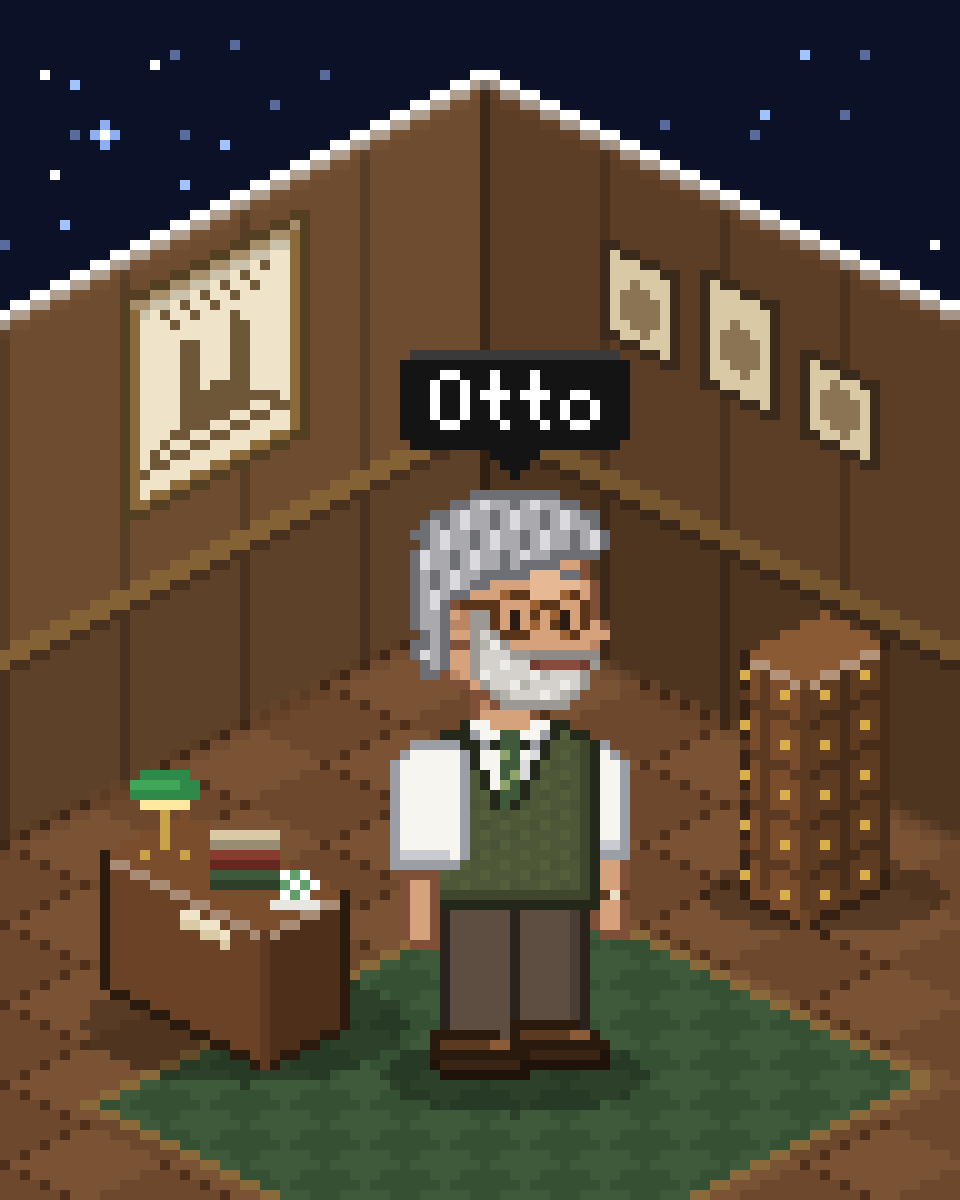
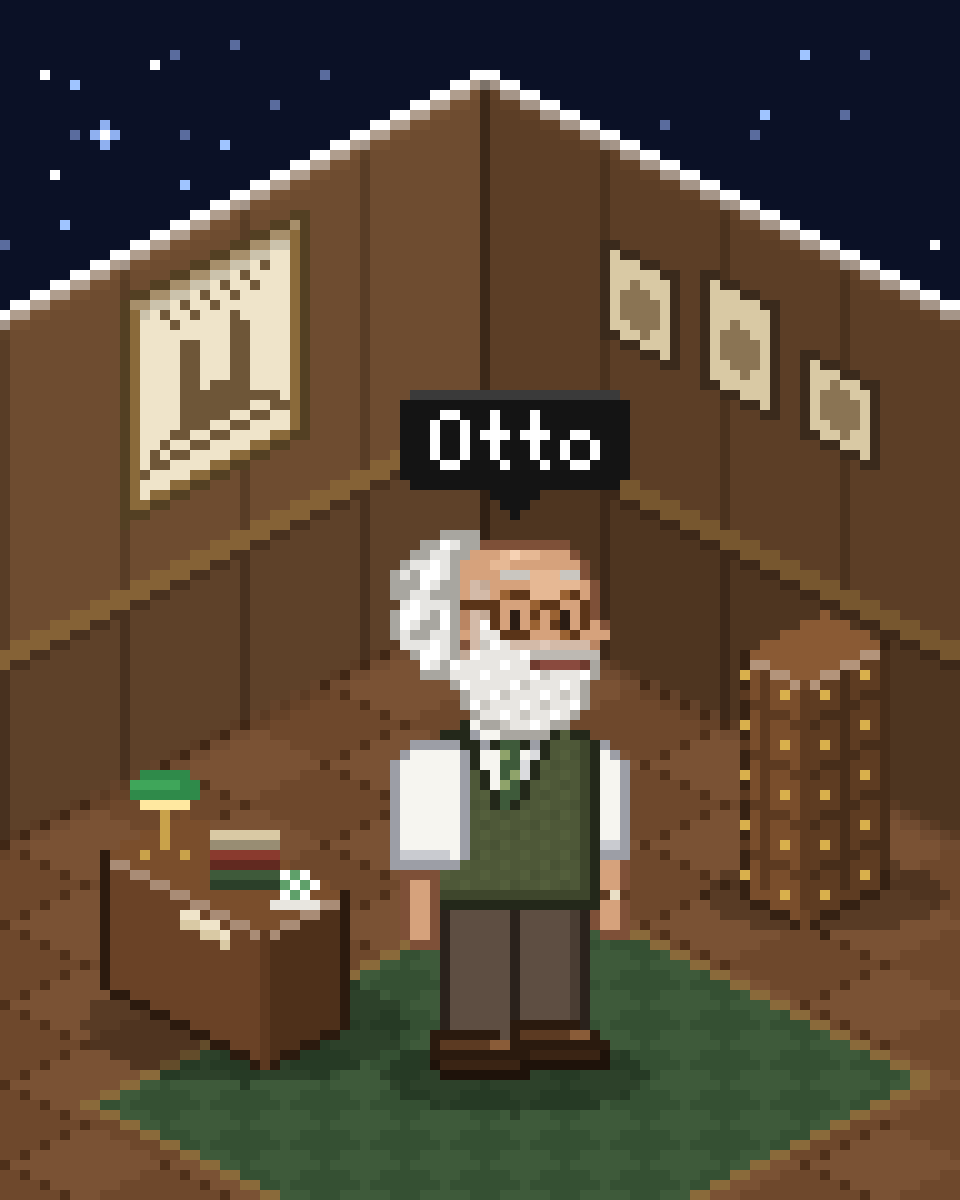
Diferencia Otto, Sr. Pra Ontem e Saldanha; refaz as barbas
Otto fica calvo no alto, com os lados brancos e fofos e barba branca
cheia; o Sr. Pra Ontem ganha cabelo escuro com as têmporas grisalhas e
um topete espetado, com bigode e cavanhaque escuros. Saldanha segue
grisalho médio e curto.

Barbas presas ao rosto: só a borda de baixo leva contorno e a que
encosta na bochecha se mistura com a pele. A do Gabriel nasce na
costeleta e acompanha o maxilar; a do Caio fica completa, mas por fazer.
No cartão do Sr. Pra Ontem, relógio e placa URGENTE saem de baixo da
etiqueta de nome.

Claude-Session: https://claude.ai/code/session_01YJa75aoJvVifXZMgNoaUDJ

Changed region(s): [[0.4062, 0.2775, 0.6562, 0.6167]]

diff --git a/pixel-art-habbo/src/chars.py b/pixel-art-habbo/src/chars.py
@@ -153,6 +153,32 @@ def _ear(S, P):
     S.add(ear)
 
 
+def _beard_on(S, rows, base, dark, sk, tex=None, stubble=False):
+    """Barba presa ao rosto: só a borda de baixo (e a que dá para fora da
+    cabeça) ganha contorno escuro; a borda que encosta na bochecha se mistura
+    com a pele. stubble=True deixa tudo suave, como barba por fazer."""
+    L = Layer(base, dark)
+    L.rows(rows)
+    if tex:
+        L.recolor(tex)
+    pts = set(L.px)
+    for (x, y), c in list(L.px.items()):
+        hard = soft = False
+        for dx, dy in ((1, 0), (-1, 0), (0, 1), (0, -1)):
+            q = (x + dx, y + dy)
+            if q in pts:
+                continue
+            if dy == 1 or q not in S.px:
+                hard = True
+            else:
+                soft = True
+        if hard and not stubble:
+            L.px[(x, y)] = dark
+        elif soft or hard:
+            L.px[(x, y)] = mix(c, sk, 0.45)
+    S.add(L)
+
+
 def guilherme():
     S = Sprite(40, 70)
     P = dict(
@@ -319,17 +345,16 @@ def gabriel():
     _neck_head(S, P)
     _ear(S, P)
 
-    # barba cheia: costeleta, maxilar, queixo e bigode
-    bd = Layer(beard, beardd)
-    bd.rows({14: (15, 16), 15: (15, 16), 16: (15, 16), 17: (15, 17),
-             18: (15, 18), 19: (15, 27), 20: (15, 27), 21: (15, 27),
-             22: (15, 26), 23: (15, 26), 24: (16, 25), 25: (17, 24), 26: (18, 23)})
-    bd.recolor(lambda x, y, c: beardl if (x * 3 + y) % 5 == 0 else (beardd if (x + y * 2) % 7 == 0 else None))
-    bd.outline()
-    # bochecha aparecendo acima da barba
-    for p in ((19, 19), (20, 19), (21, 19), (19, 20), (20, 20)):
-        bd.px.pop(p, None)
-    S.add(bd)
+    # barba cheia: nasce na costeleta, desce pelo maxilar, fecha no queixo
+    # e no bigode; presa ao rosto (sem contorno do lado da bochecha)
+    _beard_on(S, {12: (14, 15), 13: (14, 15), 14: (14, 16), 15: (15, 16), 16: (15, 16),
+                  17: (15, 17), 18: (15, 18), 19: (15, 27), 20: (12, 27), 21: (12, 27),
+                  22: (12, 26), 23: (13, 26), 24: (14, 26), 25: (15, 25), 26: (16, 24),
+                  27: (18, 22)},
+              beard, beardd, P['sks'],
+              tex=lambda x, y, c: beardl if (x * 3 + y) % 5 == 0 else (beardd if (x + y * 2) % 7 == 0 else None))
+    for x, y in ((19, 19), (20, 19)):
+        S.set(x, y, mix(beard, P['sks'], 0.4))
     # boca no meio da barba
     for x in range(22, 26):
         S.set(x, 22, rgb('#B4655A'))
@@ -735,10 +760,14 @@ def caio(pose='tablet'):
     S.set(28, 18, P['sk'])
     S.set(27, 19, P['sks'])
     S.set(26, 19, P['sks'])
-    stub = mix(P['sks'], haird, 0.28)
-    for x, y in ((15, 21), (16, 22), (17, 23), (18, 24), (19, 24), (20, 25), (21, 25),
-                 (22, 24), (25, 24), (26, 23), (20, 20), (21, 20), (26, 20)):
-        S.set(x, y, stub)
+    # barba completa, mas por fazer: costeleta, bochecha, queixo e buço
+    # sombreados, sem fio comprido
+    stub, stubd = mix(P['sks'], haird, 0.24), mix(P['sks'], haird, 0.4)
+    _beard_on(S, {16: (15, 16), 17: (15, 16), 18: (15, 16), 19: (15, 17),
+                  20: [(14, 18), (21, 26)], 21: (12, 19), 22: (12, 20), 23: (13, 26),
+                  24: (15, 25), 25: (17, 24)},
+              stub, stubd, P['sks'], stubble=True,
+              tex=lambda x, y, c: stubd if (x * 3 + y) % 5 == 0 else None)
     mouth = rgb('#5E2A1E')
     S.set(20, 21, mouth)
     S.set(27, 21, mouth)
@@ -1045,9 +1074,9 @@ def strands(base, dark, light):
 
 
 def otto():
-    """Otto: cabelo grisalho ondulado, barba branca aparada, óculos redondos
-    de tartaruga, camisa branca com a manga dobrada, colete de tricô verde
-    oliva, gravata listrada, calça de lã e sapato de couro."""
+    """Otto: calvo no alto, com os lados brancos e fofos; barba branca cheia,
+    óculos redondos de tartaruga, camisa branca com a manga dobrada, colete de
+    tricô verde oliva, gravata listrada, calça de lã e sapato de couro."""
     S = Sprite(40, 70)
     P = dict(sk=rgb('#D6A27C'), sks=rgb('#BA8562'), skl=rgb('#E6B894'), skline=rgb('#7E5038'),
              pant=rgb('#5E4E42'), pants=rgb('#4A3D33'), pantline=rgb('#2A221C'),
@@ -1056,7 +1085,7 @@ def otto():
     shirt = (rgb('#F6F5F0'), rgb('#DADBDE'), rgb('#9C9EA6'))
     vest = (rgb('#4E5838'), rgb('#3E462C'), rgb('#23281A'))
     P['teeline'] = vest[2]
-    grey, greyd, greyl = rgb('#A9A9AE'), rgb('#6E6E75'), rgb('#DADADE')
+    grey, greyd, greyl = rgb('#E6E5E2'), rgb('#A8A6A0'), rgb('#FFFFFF')
 
     _far_arm_sl(S, P, shirt, 40, cuff=rgb('#C9CBD0'), watch=(rgb('#5C3A22'), rgb('#E9DFC6')))
     _legs_shoes(S, P, top=45)
@@ -1092,16 +1121,15 @@ def otto():
         S.set(x, 29, tie)
     _ear(S, P)
 
-    # barba branca aparada, bigode um pouco mais escuro
-    bd = Layer(rgb('#D4D1CC'), rgb('#9C9893'))
-    bd.rows({15: (15, 16), 16: (15, 16), 17: (15, 16), 18: (15, 17), 19: (15, 18),
-             20: (15, 27), 21: (15, 27), 22: (15, 26), 23: (16, 26), 24: (17, 25), 25: (18, 24)})
-    bd.recolor(lambda x, y, c: rgb('#EDEBE7') if (x * 3 + y) % 5 == 0 else
-               (rgb('#B5B1AB') if (x + y * 2) % 6 == 0 else None))
-    bd.outline()
-    S.add(bd)
+    # barba branca cheia e fofa, emendada nas costeletas
+    _beard_on(S, {13: (15, 16), 14: (15, 16), 15: (15, 16), 16: (15, 16), 17: (15, 17),
+                  18: (15, 18), 19: (15, 27), 20: (12, 27), 21: (12, 27), 22: (12, 27),
+                  23: (13, 26), 24: (14, 26), 25: (14, 26), 26: (15, 25), 27: (16, 24), 28: (18, 22)},
+              rgb('#E8E6E2'), rgb('#A9A6A0'), P['sks'],
+              tex=lambda x, y, c: rgb('#FFFFFF') if (x * 3 + y) % 5 == 0 else
+              (rgb('#C9C6C0') if (x + y * 2) % 6 == 0 else None))
     for x in range(21, 28):
-        S.set(x, 20, rgb('#8E8A85'))
+        S.set(x, 20, rgb('#BDB9B3'))
     for x in range(22, 26):
         S.set(x, 21, rgb('#8A4A3E'))
     S.set(21, 21, rgb('#6E3A2E'))
@@ -1123,26 +1151,21 @@ def otto():
     for x in (14, 15, 16):
         S.set(x, 15, tort)
     for x in (18, 19, 20, 24, 25):
-        S.set(x, 12, greyd)
+        S.set(x, 12, rgb('#C9C6C0'))
 
-    # cabelo grisalho ondulado, cheio, penteado para trás
+    # calvo no alto (com brilho), cabelo branco e fofo só dos lados e atrás
+    for x, y in ((18, 10), (19, 10), (20, 10), (21, 10), (17, 11), (18, 11)):
+        S.set(x, y, P['skl'])
+    S.set(19, 10, rgb('#F6D2B4'))
     hr = Layer(grey, greyd)
-    hr.rows({4: (15, 23), 5: (13, 25), 6: (11, 27), 7: (10, 28), 8: (9, 28), 9: (9, 28),
-             10: (9, 27), 11: (9, 23), 12: (9, 19), 13: (9, 16), 14: (9, 14)})
-    hr.rows({y: (9, 12) for y in range(15, 21)})
-    hr.rows({21: (10, 12), 22: (10, 11)})
-
-    def waves(x, y, c):
-        k = (x + (y // 2) * 2) % 5
-        if k == 0:
-            return greyl
-        if k == 3:
-            return greyd
-        return None
-    hr.recolor(waves)
+    hr.rows({8: (12, 15), 9: (10, 15), 10: (9, 14), 11: (8, 13)})
+    hr.rows({y: (7, 13) for y in range(12, 20)})
+    hr.rows({20: (8, 13), 21: (9, 12), 22: (10, 11)})
+    hr.recolor(curls(grey, greyd, greyl))
     hr.outline()
-    for p in ((28, 7), (9, 9), (9, 18)):
-        hr.px.pop(p, None)
+    for (x, y) in hr.edges():
+        if (x * 5 + y * 3) % 4 == 0 and x < 10:
+            hr.px.pop((x, y), None)
     S.add(hr)
     return S.image()
 
@@ -1235,9 +1258,11 @@ def _necklace(S, pendant=GOLD, y0=30):
 
 
 def pra_ontem(pose='parado'):
-    """Sr. Pra Ontem, do Departamento das Urgências: grisalho, óculos pretos
-    grossos, barba grisalha, terno grafite, camisa branca, gravata verde e
-    lenço no bolso. pose='telefone': o fone vermelho no ouvido."""
+    """Sr. Pra Ontem, do Departamento das Urgências: cabelo escuro com as
+    têmporas grisalhas, topete espetado de quem está com pressa, óculos
+    pretos grossos, bigode e cavanhaque escuros com fios brancos, terno
+    grafite, gravata verde e lenço no bolso.
+    pose='telefone': o fone vermelho no ouvido."""
     S = Sprite(40, 70)
     P = dict(sk=rgb('#D9A580'), sks=rgb('#BE8962'), skl=rgb('#E8BA96'), skline=rgb('#7E5038'),
              pant=rgb('#3E3E45'), pants=rgb('#303036'), pantline=rgb('#17171B'),
@@ -1247,7 +1272,8 @@ def pra_ontem(pose='parado'):
     suit_l = rgb('#5A5A64')
     P['teeline'] = suit[2]
     white, whites = rgb('#F6F5F0'), rgb('#DADBDE')
-    grey, greyd, greyl = rgb('#9C9CA1'), rgb('#66666C'), rgb('#D0D0D4')
+    grey, greyd, greyl = rgb('#34343A'), rgb('#1C1C20'), rgb('#56565E')
+    silver, silverd = rgb('#C2C2C8'), rgb('#8E8E96')
 
     _far_arm_sl(S, P, suit, 41, cuff=white, watch=(rgb('#C9A24A'), rgb('#F7EFD0')))
     _legs_shoes(S, P, top=46)
@@ -1289,36 +1315,42 @@ def pra_ontem(pose='parado'):
     for x in (22, 14, 15, 16):
         S.set(x, 15, gl)
     for x, y in ((18, 12), (19, 12), (20, 13), (21, 13), (23, 13), (24, 12), (25, 12), (26, 12)):
-        S.set(x, y, greyd)
+        S.set(x, y, rgb('#2A2A30'))
     S.set(28, 18, P['sk'])
     S.set(27, 19, P['sks'])
     S.set(26, 19, P['sks'])
-    # barba por fazer, bigodão e cavanhaque grisalhos
-    for x, y in ((15, 21), (16, 22), (17, 23), (18, 24), (16, 20), (17, 22), (15, 19)):
-        S.set(x, y, mix(P['sks'], greyl, 0.45))
+    # barba por fazer escura, bigodão e cavanhaque escuros com fios brancos
+    stub = mix(P['sks'], greyd, 0.3)
+    for x, y in ((15, 21), (16, 22), (17, 23), (18, 24), (16, 20), (17, 22), (15, 19), (19, 25)):
+        S.set(x, y, stub)
     for x in range(21, 28):
-        S.set(x, 20, rgb('#7A7672'))
-        S.set(x, 21, rgb('#8E8A86') if x in (21, 27) else rgb('#7A7672'))
+        S.set(x, 20, greyd)
+        S.set(x, 21, silverd if x in (21, 27) else grey)
+    S.set(23, 20, silverd)
+    S.set(26, 20, silverd)
     for x in range(23, 26):
         S.set(x, 22, rgb('#3A1A12'))
     S.set(24, 23, rgb('#8A3A2E'))
     for x, y in ((20, 22), (21, 22), (22, 22), (26, 22), (20, 23), (21, 23), (22, 23), (23, 23),
                  (25, 23), (26, 23), (21, 24), (22, 24), (23, 24), (24, 24), (25, 24), (22, 25), (23, 25), (24, 25)):
-        S.set(x, y, rgb('#D4D1CC') if (x + y) % 3 else rgb('#A9A6A1'))
+        S.set(x, y, silver if (x * 2 + y) % 5 == 0 else (grey if (x + y) % 2 else greyl))
 
+    # topete escuro e espetado, têmporas e nuca grisalhas
     hr = Layer(grey, greyd)
-    hr.rows({3: (15, 23), 4: (13, 25), 5: (11, 27), 6: (10, 28), 7: (9, 28), 8: (9, 28),
+    hr.rows({0: [(16, 17), (22, 23)], 1: [(15, 18), (21, 24), (26, 27)], 2: [(14, 19), (20, 28)],
+             3: (13, 28), 4: (12, 29), 5: (11, 28), 6: (10, 28), 7: (10, 28), 8: (9, 28),
              9: (9, 27), 10: (9, 25), 11: (9, 21), 12: (9, 17), 13: (9, 15), 14: (9, 13)})
     hr.rows({y: (9, 12) for y in range(15, 21)})
     hr.rows({21: (10, 12)})
 
-    def waves(x, y, c):
-        k = (x + (y // 2) * 2) % 5
-        return greyl if k == 0 else (greyd if k == 3 else None)
-    hr.recolor(waves)
+    def temples(x, y, c):
+        if (x <= 13 and y >= 9) or (y >= 11 and x <= 15):
+            return silver if (x + y) % 3 else silverd
+        if (x + y * 2) % 5 == 0:
+            return greyl
+        return None
+    hr.recolor(temples)
     hr.outline()
-    for p in ((15, 3), (19, 3), (28, 6), (9, 8)):
-        hr.px.pop(p, None)
     S.add(hr)
 
     if pose == 'telefone':

diff --git a/pixel-art-habbo/src/build.py b/pixel-art-habbo/src/build.py
@@ -1307,8 +1307,8 @@ def scene_pra_ontem():
         return base
 
     room(S, walnut(rgb('#6A4A32')), walnut(rgb('#58402A')), floor)
-    on_wall(S, wall_clock(), 'l', 16, 50)
-    wall_sign(S, 'URGENTE', 'r', 58, 46, 30, 10, rgb('#D7302A'), WHITE, edge=rgb('#7E1612'))
+    on_wall(S, wall_clock(), 'l', 5, 54)
+    wall_sign(S, 'URGENTE', 'r', 66, 28, 28, 10, rgb('#D7302A'), WHITE, edge=rgb('#7E1612'))
     potted_palm(S, 82, 94)
     tx_, ty_ = office_desk(S, 30, 108, 5, 10, 15)
     paper_stack(S, tx_ - 11, ty_ - 4, 10, ('#D9453B', '#F4C04F', '#D9453B'))

diff --git a/pixel-art-habbo/README.md b/pixel-art-habbo/README.md
@@ -11,11 +11,11 @@ grade com tiles de 16x16 e personagens de 16x32.
 | 03 | Flora: labrador preta com coleira vermelha | manta vermelha, potinho de ração, bolinha de tênis |
 | 04 | Lupin: vira-lata pequeno, pelo duro, barba e sobrancelhas caramelo | manta xadrez azul, caminha, ossinho |
 | 05 | Saldanha (contador): grisalho, óculos, barba branca, polo marinho, cinto marrom, chino cinza, tablet | escritório: parede verde, janela para a cidade, quadro com gráfico, mesa, planta |
-| 06 | Caio (consultor): cachos curtos, sorrisão, camisa verde-oliva aberta, crachá, tablet com check verde | recepção: ripado de madeira, placa de check, balcão com campainha, ficus |
+| 06 | Caio (consultor): cachos curtos, barba por fazer, sorrisão, camisa verde-oliva aberta, crachá, tablet com check verde | recepção: ripado de madeira, placa de check, balcão com campainha, ficus |
 | 07 | Vivi: cachos volumosos com luzes caramelo, argolas e colar dourados, blusa laranja canelada, pantalona creme, scarpin | agência de viagens: quadro do Pão de Açúcar, prateleira com a torre Eiffel e o globo, balcão de ripas com câmera antiga, mala |
 | 08 | Nina: coque bagunçado, argolas, blazer verde-oliva com a manga puxada, regata creme, cinto marrom, calça creme | estúdio de arquitetura: moodboard, estante com livros, mesa com planta impressa, amostras e maquete, ficus |
-| 09 | Otto: grisalho ondulado, barba branca, óculos redondos de tartaruga, camisa branca, colete de tricô oliva, gravata listrada | arquivo da memória: parede de madeira, gravura antiga, retratos sépia, fichário de gavetinhas, mesa com luminária verde e chá |
-| 10 | Sr. Pra Ontem (Departamento das Urgências): grisalho, óculos pretos, barba grisalha, terno grafite, gravata verde, fone vermelho no ouvido | relógio de parede, placa URGENTE, mesa com pilhas de papel etiquetadas, telefone vermelho, despertador e ampulheta |
+| 09 | Otto: calvo no alto, lados brancos e fofos, barba branca cheia, óculos redondos de tartaruga, camisa branca, colete de tricô oliva, gravata listrada | arquivo da memória: parede de madeira, gravura antiga, retratos sépia, fichário de gavetinhas, mesa com luminária verde e chá |
+| 10 | Sr. Pra Ontem (Departamento das Urgências): cabelo escuro com as têmporas grisalhas e topete espetado, óculos pretos, bigode e cavanhaque escuros, terno grafite, gravata verde, fone vermelho no ouvido | relógio de parede, placa URGENTE, mesa com pilhas de papel etiquetadas, telefone vermelho, despertador e ampulheta |
 | 11 | Íris (Analista de Cenários Financeiros): black power, óculos gatinho de tartaruga, blazer verde-escuro | quadro de gráfico, janela de fim de tarde, mesa com notebook, papéis e ampulheta, globo de chão |
 | 12 | Joana (Negociadora de Resultados): careca, argolas grandes e piercings dourados, delineado e batom vinho, blazer bege com botões dourados | quadro de alvo, estante de livros, mesa com notebook, caneca e livros, planta |
 | 13 | Malu (Experiências, Viagens e Histórias): cabelo longo, liso e preto-azulado, óculos de sol na cabeça, camisa de linho creme, jeans | mapa-múndi com polaroides, janela para o Pão de Açúcar, mesa com notebook, passaporte e câmera, mala com chapéu de palha |
